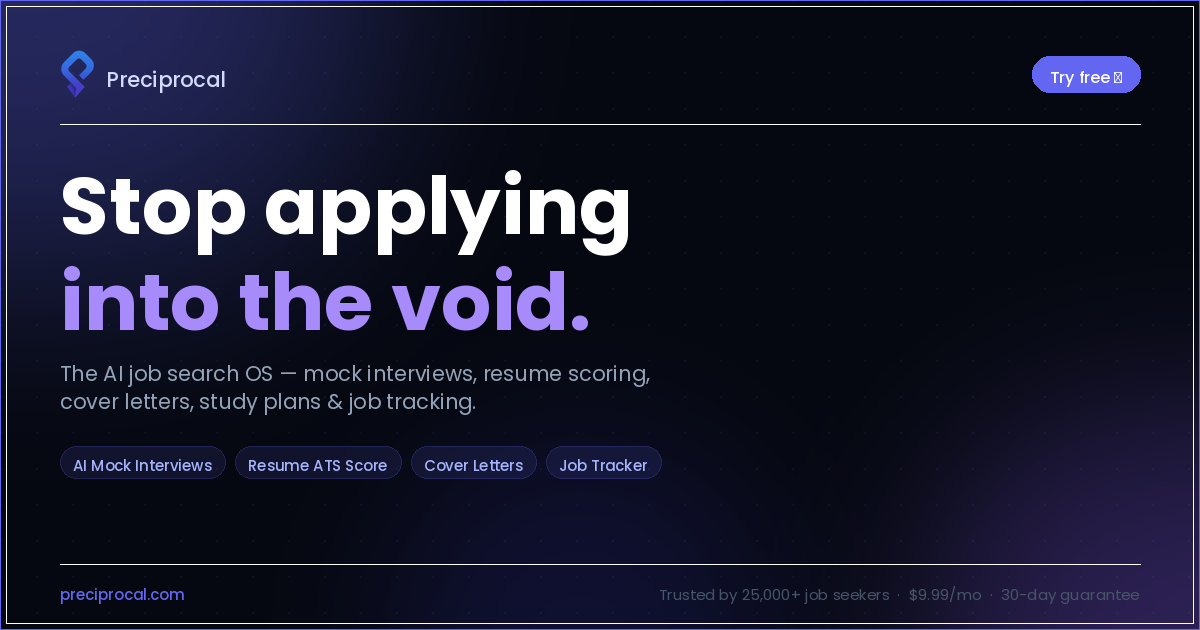
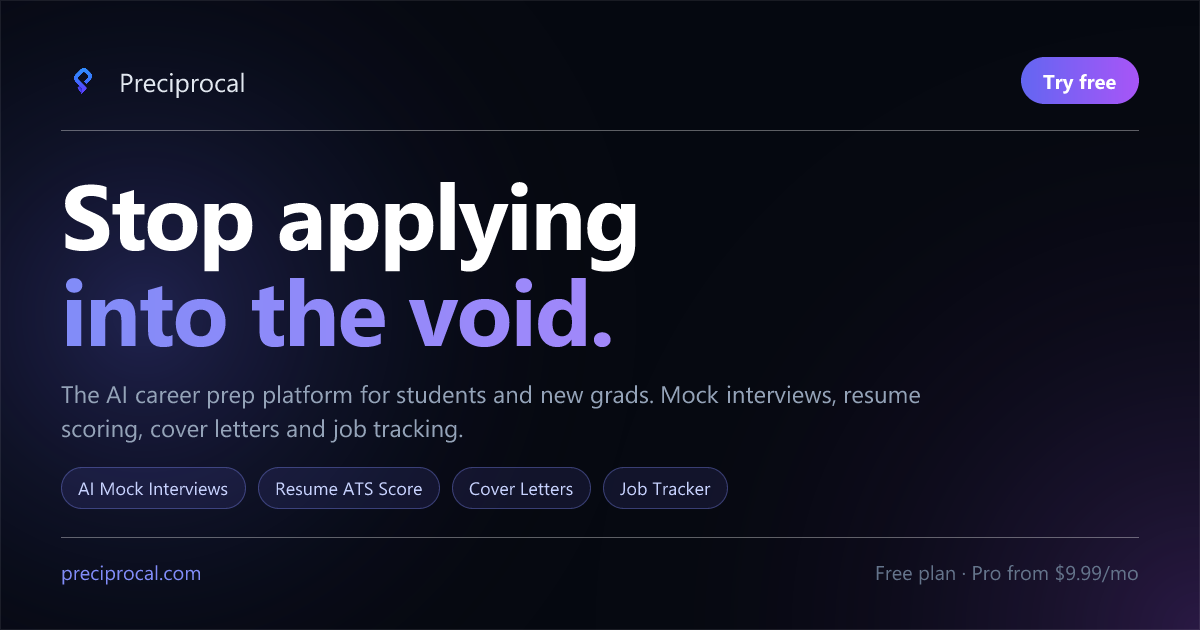
fix(copy): describe Preciprocal as an AI career prep platform, not job search
Preciprocal is not a job search platform. Every self-description that
said "job search platform" or "job search operating system" now says
"AI career prep platform": titles, meta descriptions, the hero badge,
footer tagline, structured data, the FAQ answer, and the comparison
pages. Descriptions of competitors are unchanged.

The share image (public/og-image.png) carried the same claim, plus an
em dash, a "Trusted by 25,000+ job seekers" figure the site had already
removed as unsubstantiated, and an outdated "30-day guarantee". It is now
rendered from text by scripts/generate-og-image.mjs so its copy can be
reviewed and regenerated.

Homepage and FAQ lastmod bumped so IndexNow resubmits them.

Changed region(s): [[0.0, 0.0, 1.0, 1.0], [0.0308, 0.9048, 0.185, 0.9651]]

diff --git a/components/JsonLd.tsx b/components/JsonLd.tsx
@@ -44,7 +44,7 @@ export function OrganizationJsonLd() {
     name: "Preciprocal",
     // alternateName and legalName help Google understand "Preciprocal" is an
     // intentional proper noun and not a misspelling of "reciprocal".
-    alternateName: ["Preciprocal AI", "Preciprocal Job Search"],
+    alternateName: ["Preciprocal AI", "Preciprocal Career Prep"],
     legalName: "Preciprocal",
     url: "https://preciprocal.com",
     logo: {
@@ -59,7 +59,7 @@ export function OrganizationJsonLd() {
     // image at the top level reinforces the logo association
     image: "https://preciprocal.com/logo.png",
     description:
-      "Preciprocal is an AI-powered job search platform with mock interviews, resume analysis, cover letter generation, study planning, and job tracking. Built for students and early-career professionals.",
+      "Preciprocal is an AI-powered career prep platform with mock interviews, resume analysis, cover letter generation, study planning, and job tracking. Built for students and early-career professionals.",
     foundingDate: "2024",
     // numberOfEmployees removed: it published a specific headcount of 5, which
     // is not a figure we can substantiate. Do not re-add unverifiable
@@ -129,7 +129,7 @@ export function SoftwareAppJsonLd() {
     operatingSystem: "Web",
     url: "https://preciprocal.com",
     description:
-      "AI-powered job search operating system with mock interviews, resume ATS scoring, cover letter generation, study planning, and job tracking.",
+      "AI-powered career prep platform with mock interviews, resume ATS scoring, cover letter generation, study planning, and job tracking.",
     screenshot: "https://preciprocal.com/og-image.png",
     featureList: [
       "AI Mock Interviews with multi-agent panel",
@@ -193,10 +193,10 @@ export function WebSiteJsonLd() {
     "@type": "WebSite",
     "@id": "https://preciprocal.com/#website",
     name: "Preciprocal",
-    alternateName: "Preciprocal AI Job Search Platform",
+    alternateName: "Preciprocal AI Career Prep Platform",
     url: "https://preciprocal.com",
     description:
-      "AI-powered job search operating system: mock interviews, resume analysis, cover letters, study planner, job tracker.",
+      "AI-powered career prep platform: mock interviews, resume analysis, cover letters, study planner, job tracker.",
     publisher: { "@id": "https://preciprocal.com/#organization" },
     // SearchAction removed: potentialAction requires a live server-side search
     // endpoint at the urlTemplate. Preciprocal uses static programmatic pages,

diff --git a/app/layout.tsx b/app/layout.tsx
@@ -18,12 +18,12 @@ export const metadata: Metadata = {
   metadataBase: new URL("https://preciprocal.com"),
 
   title: {
-    default: "Preciprocal: AI Job Search Platform for Students and New Grads",
+    default: "Preciprocal: AI Career Prep Platform for Students and New Grads",
     template: "%s | Preciprocal",
   },
 
   description:
-    "The all-in-one AI job search platform built for students and new grads. AI mock interviews, ATS resume scoring, cover letter generator, study planner, and job tracker. From $9.99/mo.",
+    "The all-in-one AI career prep platform built for students and new grads. AI mock interviews, ATS resume scoring, cover letter generator, study planner, and job tracker. From $9.99/mo.",
 
   keywords: [
     // Core product
@@ -34,7 +34,7 @@ export const metadata: Metadata = {
     "interview preparation for new grads",
     "AI interview practice",
     "cover letter generator",
-    "job search platform for students",
+    "career prep platform for students",
     "career preparation",
     "job tracker",
     "interview simulator",
@@ -84,7 +84,7 @@ export const metadata: Metadata = {
     locale: "en_US",
     url: "https://preciprocal.com",
     siteName: "Preciprocal",
-    title: "Preciprocal: AI Job Search Platform for Students and New Grads",
+    title: "Preciprocal: AI Career Prep Platform for Students and New Grads",
     description:
       "AI mock interviews, ATS resume scoring, cover letters, study plans and job tracking. Built for students and new grads. From $9.99/mo.",
     images: [
@@ -92,7 +92,7 @@ export const metadata: Metadata = {
         url: "https://preciprocal.com/og-image.png",
         width: 1200,
         height: 630,
-        alt: "Preciprocal: AI Job Search Platform for Students",
+        alt: "Preciprocal: AI Career Prep Platform for Students",
         type: "image/png",
       },
     ],
@@ -102,10 +102,10 @@ export const metadata: Metadata = {
     card: "summary_large_image",
     site: "@preciprocal",
     creator: "@preciprocal",
-    title: "Preciprocal: AI Job Search Platform for Students and New Grads",
+    title: "Preciprocal: AI Career Prep Platform for Students and New Grads",
     description:
       "AI mock interviews, ATS resume scoring, cover letters, study plans and job tracking. $9.99/mo.",
-    images: [{ url: "https://preciprocal.com/og-image.png", alt: "Preciprocal - AI Job Search for Students" }],
+    images: [{ url: "https://preciprocal.com/og-image.png", alt: "Preciprocal: AI Career Prep for Students" }],
   },
 
   alternates: {

diff --git a/lib/constants.ts b/lib/constants.ts
@@ -2856,7 +2856,7 @@ export const FAQ_CATEGORIES: { id: FAQCategory; label: string }[] = [
 ];
 
 export const FAQS: FAQItem[] = [
-  { id: "g1", category: "general",      q: "What is Preciprocal?",                           a: "Preciprocal is an AI-powered job search operating system. It combines resume analysis (ATS scoring, recruiter eye simulation, candidate benchmarking, interview intelligence), voice-based mock interviews with a multi-agent panel, cover letter generation, AI study planning, LinkedIn optimisation, cold outreach, and a job tracker with contact finder, all in one platform." },
+  { id: "g1", category: "general",      q: "What is Preciprocal?",                           a: "Preciprocal is an AI-powered career prep platform. It combines resume analysis (ATS scoring, recruiter eye simulation, candidate benchmarking, interview intelligence), voice-based mock interviews with a multi-agent panel, cover letter generation, AI study planning, LinkedIn optimisation, cold outreach, and a job tracker with contact finder, all in one platform." },
   { id: "g2", category: "general",      q: "Who is Preciprocal for?",                        a: "Students, recent graduates, and early-career professionals preparing for any role: tech, finance, consulting, marketing, HR, healthcare, legal, and more. Every tool adapts to your target role and industry." },
   { id: "g3", category: "general",      q: "How do I get started?",                          a: "Sign up free at app.preciprocal.com, no credit card needed. Upload a resume and get your ATS score in 2 minutes, or jump straight into a mock interview. The platform walks you through everything." },
   { id: "g4", category: "general",      q: "Is there a mobile app?",                         a: "Not yet. Preciprocal is fully web-based and works on any device with a modern browser. A native app is on our roadmap." },

diff --git a/app/alternatives/resumeworded-alternative/page.tsx b/app/alternatives/resumeworded-alternative/page.tsx
@@ -88,7 +88,7 @@ const FAQS = [
   },
   {
     q: "What does Preciprocal have that Resume Worded doesn't?",
-    a: "AI mock interviews (3/mo on Pro with a 3-agent panel and 5-dimension scoring), cover letter generation with real-time company research, a job tracker with contact finder, a day-by-day study planner, and a Chrome extension for 1-click job saving. Resume Worded is a resume review tool. Preciprocal is a full job search operating system.",
+    a: "AI mock interviews (3/mo on Pro with a 3-agent panel and 5-dimension scoring), cover letter generation with real-time company research, a job tracker with contact finder, a day-by-day study planner, and a Chrome extension for 1-click job saving. Resume Worded is a resume review tool. Preciprocal is a full career prep platform.",
   },
   {
     q: "How much does Resume Worded cost vs Preciprocal?",
@@ -185,7 +185,7 @@ export default function ResumeWordedAlternativePage() {
         <div className="grid sm:grid-cols-2 gap-4 mb-12">
           {[
             { label: "Resume Worded", price: "$49/mo", note: "Resume review only", highlight: false },
-            { label: "Preciprocal Pro", price: "$9.99/mo", note: "Full job search platform", highlight: true },
+            { label: "Preciprocal Pro", price: "$9.99/mo", note: "Full career prep platform", highlight: true },
           ].map(({ label, price, note, highlight }) => (
             <div
               key={label}

diff --git a/app/page.tsx b/app/page.tsx
@@ -33,7 +33,7 @@ import ChromeExtensionBanner from "@/components/ChromeExtensionBanner";
 
 export const metadata: Metadata = {
   // Page-level overrides (layout.tsx handles the base/template)
-  title: "Preciprocal | AI-Powered Job Search Operating System",
+  title: "Preciprocal | AI Career Prep Platform for Students",
 
   // 155 chars - specific, keyword-rich, includes price/guarantee for CTR
   description:
@@ -43,7 +43,7 @@ export const metadata: Metadata = {
     "AI mock interview",
     "resume ATS scorer",
     "cover letter generator",
-    "job search tool for students",
+    "career prep tool for students",
     "interview prep platform",
     "career prep AI",
     "ATS resume checker free",
@@ -64,7 +64,7 @@ export const metadata: Metadata = {
         url: "https://preciprocal.com/og-image.png",
         width: 1200,
         height: 630,
-        alt: "Preciprocal | AI Job Search Operating System",
+        alt: "Preciprocal | AI Career Prep Platform",
       },
     ],
     type: "website",
@@ -72,7 +72,7 @@ export const metadata: Metadata = {
 
   twitter: {
     card: "summary_large_image",
-    title: "Preciprocal | AI Job Search OS",
+    title: "Preciprocal | AI Career Prep Platform",
     description:
       "AI mock interviews, ATS resume scoring, cover letters, study plans & job tracking. $9.99/mo.",
     images: [{ url: "https://preciprocal.com/og-image.png", alt: "Preciprocal" }],

diff --git a/app/alternatives/jobscan-alternative/page.tsx b/app/alternatives/jobscan-alternative/page.tsx
@@ -85,7 +85,7 @@ const FAQS = [
   },
   {
     q: "What does Preciprocal have that Jobscan doesn't?",
-    a: "AI mock interviews (3/mo on Pro), a multi-agent interview panel with 5-dimension scoring, cover letter generation with real-time company research, a study planner, cold outreach generator, and interview debrief journal. Jobscan is a resume tool. Preciprocal is a full job search platform.",
+    a: "AI mock interviews (3/mo on Pro), a multi-agent interview panel with 5-dimension scoring, cover letter generation with real-time company research, a study planner, cold outreach generator, and interview debrief journal. Jobscan is a resume tool. Preciprocal is a full career prep platform.",
   },
   {
     q: "How much does Jobscan cost vs Preciprocal?",
@@ -181,7 +181,7 @@ export default function JobscanAlternativePage() {
         <div className="grid sm:grid-cols-2 gap-4 mb-12">
           {[
             { label: "Jobscan Pro", price: "$49.95/mo", note: "ATS scanning only", highlight: false },
-            { label: "Preciprocal Pro", price: "$9.99/mo", note: "Full job search platform", highlight: true },
+            { label: "Preciprocal Pro", price: "$9.99/mo", note: "Full career prep platform", highlight: true },
           ].map(({ label, price, note, highlight }) => (
             <div
               key={label}

diff --git a/app/alternatives/kickresume-alternative/page.tsx b/app/alternatives/kickresume-alternative/page.tsx
@@ -158,7 +158,7 @@ export default function KickresumeAlternativePage() {
       theirPrice="$24/mo"
       theirPriceNote="Resume and cover letter builder"
       intro="Kickresume is a design-led resume builder with a large template library and a genuinely strong visual editor. If your priority is producing a resume that looks polished, it does that better than most tools, and its annual plan at roughly $8 a month is one of the cheaper long-term options on the market."
-      positioning="Preciprocal is a job search platform rather than a document builder. It scores your resume against specific postings, runs voice mock interviews, generates cover letters and tracks applications, at $9.99/mo."
+      positioning="Preciprocal is a career prep platform rather than a document builder. It scores your resume against specific postings, runs voice mock interviews, generates cover letters and tracks applications, at $9.99/mo."
       verdictTheirs="you mainly need a well-designed resume and cover letter, value template variety, and can commit to the annual plan where it becomes very cheap."
       verdictOurs="you need the resume to pass ATS against specific postings and want interview preparation, tracking and outreach in the same tool."
       rows={ROWS}

diff --git a/app/sitemap.ts b/app/sitemap.ts
@@ -84,7 +84,7 @@ export default function sitemap(): MetadataRoute.Sitemap {
     // ── Core ────────────────────────────────────────────────────────────────
     {
       url: SITE_URL,
-      lastModified: new Date("2026-06-06"),
+      lastModified: new Date("2026-10-14"),
       changeFrequency: "weekly",
       priority: 1.0,
     },
@@ -214,7 +214,7 @@ export default function sitemap(): MetadataRoute.Sitemap {
     },
     {
       url: `${SITE_URL}/faq`,
-      lastModified: new Date("2026-06-05"),
+      lastModified: new Date("2026-10-14"),
       changeFrequency: "monthly",
       priority: 0.72,
     },

diff --git a/app/cover-letter-generator/page.tsx b/app/cover-letter-generator/page.tsx
@@ -122,7 +122,7 @@ const WHAT_MAKES_IT_DIFFERENT = [
     body: "Most cover letter generators assume you have 3-5 years of professional experience to reference. Preciprocal understands entry-level positioning: how to write about projects, internships, coursework, and transferable skills in a way that reads as capability, not inexperience.",
   },
   {
-    title: "Part of a complete job search platform",
+    title: "Part of a complete career prep platform",
     body: "Your cover letter doesn't exist in isolation. After generating it, your application gets tracked automatically in your job tracker. The job description feeds into your resume ATS check. Your interview prep gets queued for this company. Everything connects.",
   },
 ];

diff --git a/app/pricing/page.tsx b/app/pricing/page.tsx
@@ -52,7 +52,7 @@ function PricingJsonLd() {
     "@id": "https://preciprocal.com/pricing#offercatalog",
     name: "Preciprocal Pricing Plans",
     url: "https://preciprocal.com/pricing",
-    description: `AI-powered job search platform plans, Free, Pro (${tierPriceWithPeriod("pro")}), and Premium (${tierPriceWithPeriod("premium")}).`,
+    description: `AI career prep platform plans, Free, Pro (${tierPriceWithPeriod("pro")}), and Premium (${tierPriceWithPeriod("premium")}).`,
     provider: { "@id": "https://preciprocal.com/#organization" },
     // Derived from lib/pricing.ts so the structured-data price and quota claims
     // cannot drift from what the cards below actually render.

diff --git a/components/AlternativePage.tsx b/components/AlternativePage.tsx
@@ -152,7 +152,7 @@ export default function AlternativePage({
         <div className="grid sm:grid-cols-2 gap-4 mb-12">
           {[
             { label: theirPlanLabel, price: theirPrice, note: theirPriceNote, highlight: false },
-            { label: "Preciprocal Pro", price: "$9.99/mo", note: "Full job search platform", highlight: true },
+            { label: "Preciprocal Pro", price: "$9.99/mo", note: "Full career prep platform", highlight: true },
           ].map(({ label, price, note, highlight }) => (
             <div
               key={label}

diff --git a/app/features/metadata.ts b/app/features/metadata.ts
@@ -15,7 +15,7 @@ export const metadata: Metadata = {
     "Every Preciprocal tool in one place: resume scoring against real postings, tailored cover letters, voice mock interviews, a study plan built to your interview date, contact finding, and application tracking. Built for students and early-career job seekers.",
   keywords: [
     "job search tools",
-    "all in one job search platform",
+    "all in one career prep platform",
     "job search tools for students",
     "job search tools for new grads",
     "resume and interview prep tools",
